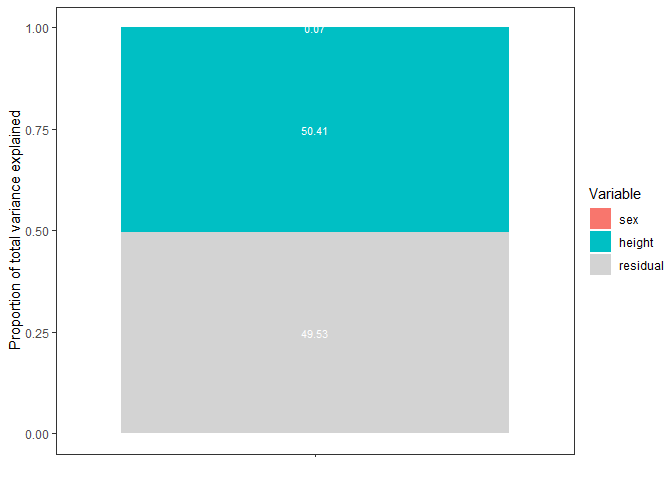
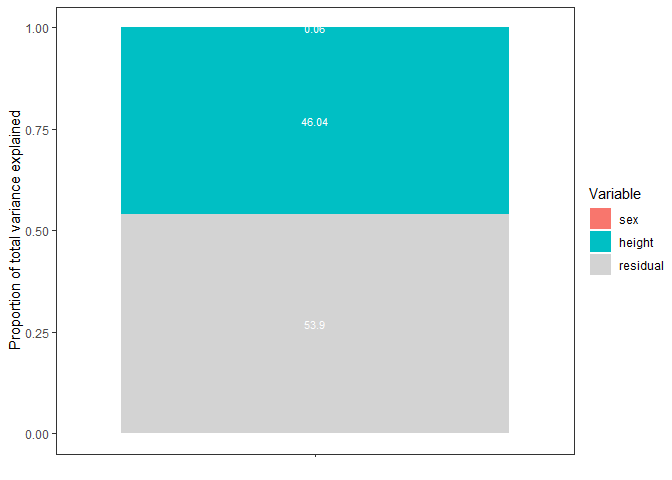
Updated Readme file

Changed region(s): [[0.1562, 0.4375, 0.7812, 0.5], [0.4375, 0.6562, 0.5, 0.7188], [0.4375, 0.25, 0.5, 0.2812]]

diff --git a/README.md b/README.md
@@ -46,14 +46,65 @@ mod = brms_model(Chainset = 2,
                  FixedEffect = c("sex","height"), 
                  Family = "gaussian", 
                  Data = md)
+#> [1] "No problems so far 🙌"
+#> Compiling Stan program...
+#> Start sampling
 
 model_fit(mod, Group = "sex")
+#> No divergences to plot.
+#> Using all posterior draws for ppc type 'loo_pit_qq' by default.
+#> Using all posterior draws for ppc type 'violin_grouped' by default.
+#> $`R-hat and Effective sample size`
+#> # A tibble: 1 × 2
+#>    Rhat EffectiveSampleSize
+#>   <dbl>               <dbl>
+#> 1  1.00               1650.
+#> 
+#> $`Traceplots plot`
+```
+
+<img src="man/figures/README-example-1.png" width="100%" />
+
+    #> 
+    #> $`Posterior predictive check - Density overlay plot`
+
+<img src="man/figures/README-example-2.png" width="100%" />
+
+    #> 
+    #> $`Posterior predictive check - LOO-PIT-QQ plot`
+
+<img src="man/figures/README-example-3.png" width="100%" />
+
+    #> 
+    #> $`Posterior predictive check - Group density overlay plot`
+    #> $`Posterior predictive check - Group density overlay plot`$GroupPlot_sex
+
+<img src="man/figures/README-example-4.png" width="100%" />
+
+``` r
 
 model_summary(mod)
+#> # A tibble: 7 × 6
+#>   variable              mean median    sd lower_HPD upper_HPD
+#>   <chr>                <dbl>  <dbl> <dbl>     <dbl>     <dbl>
+#> 1 Intercept            4.49   4.49  0.002     4.49      4.50 
+#> 2 sex                  0.001  0.001 0.004    -0.006     0.008
+#> 3 height               0.005  0.005 0         0.005     0.006
+#> 4 R2_sex               0.001  0     0.001     0         0.002
+#> 5 R2_height            0.46   0.461 0.021     0.417     0.499
+#> 6 R2_sum_fixed_effects 0.461  0.462 0.021     0.418     0.499
+#> 7 R2_residual          0.539  0.538 0.021     0.501     0.582
 
 plot_intervals(mod)
+```
+
+<img src="man/figures/README-example-5.png" width="100%" />
+
+``` r
 
 PS = var_decomp(mod)
 
 plot_R2(PS)
 ```
+
+<img src="man/figures/README-example-6.png" width="100%" />
